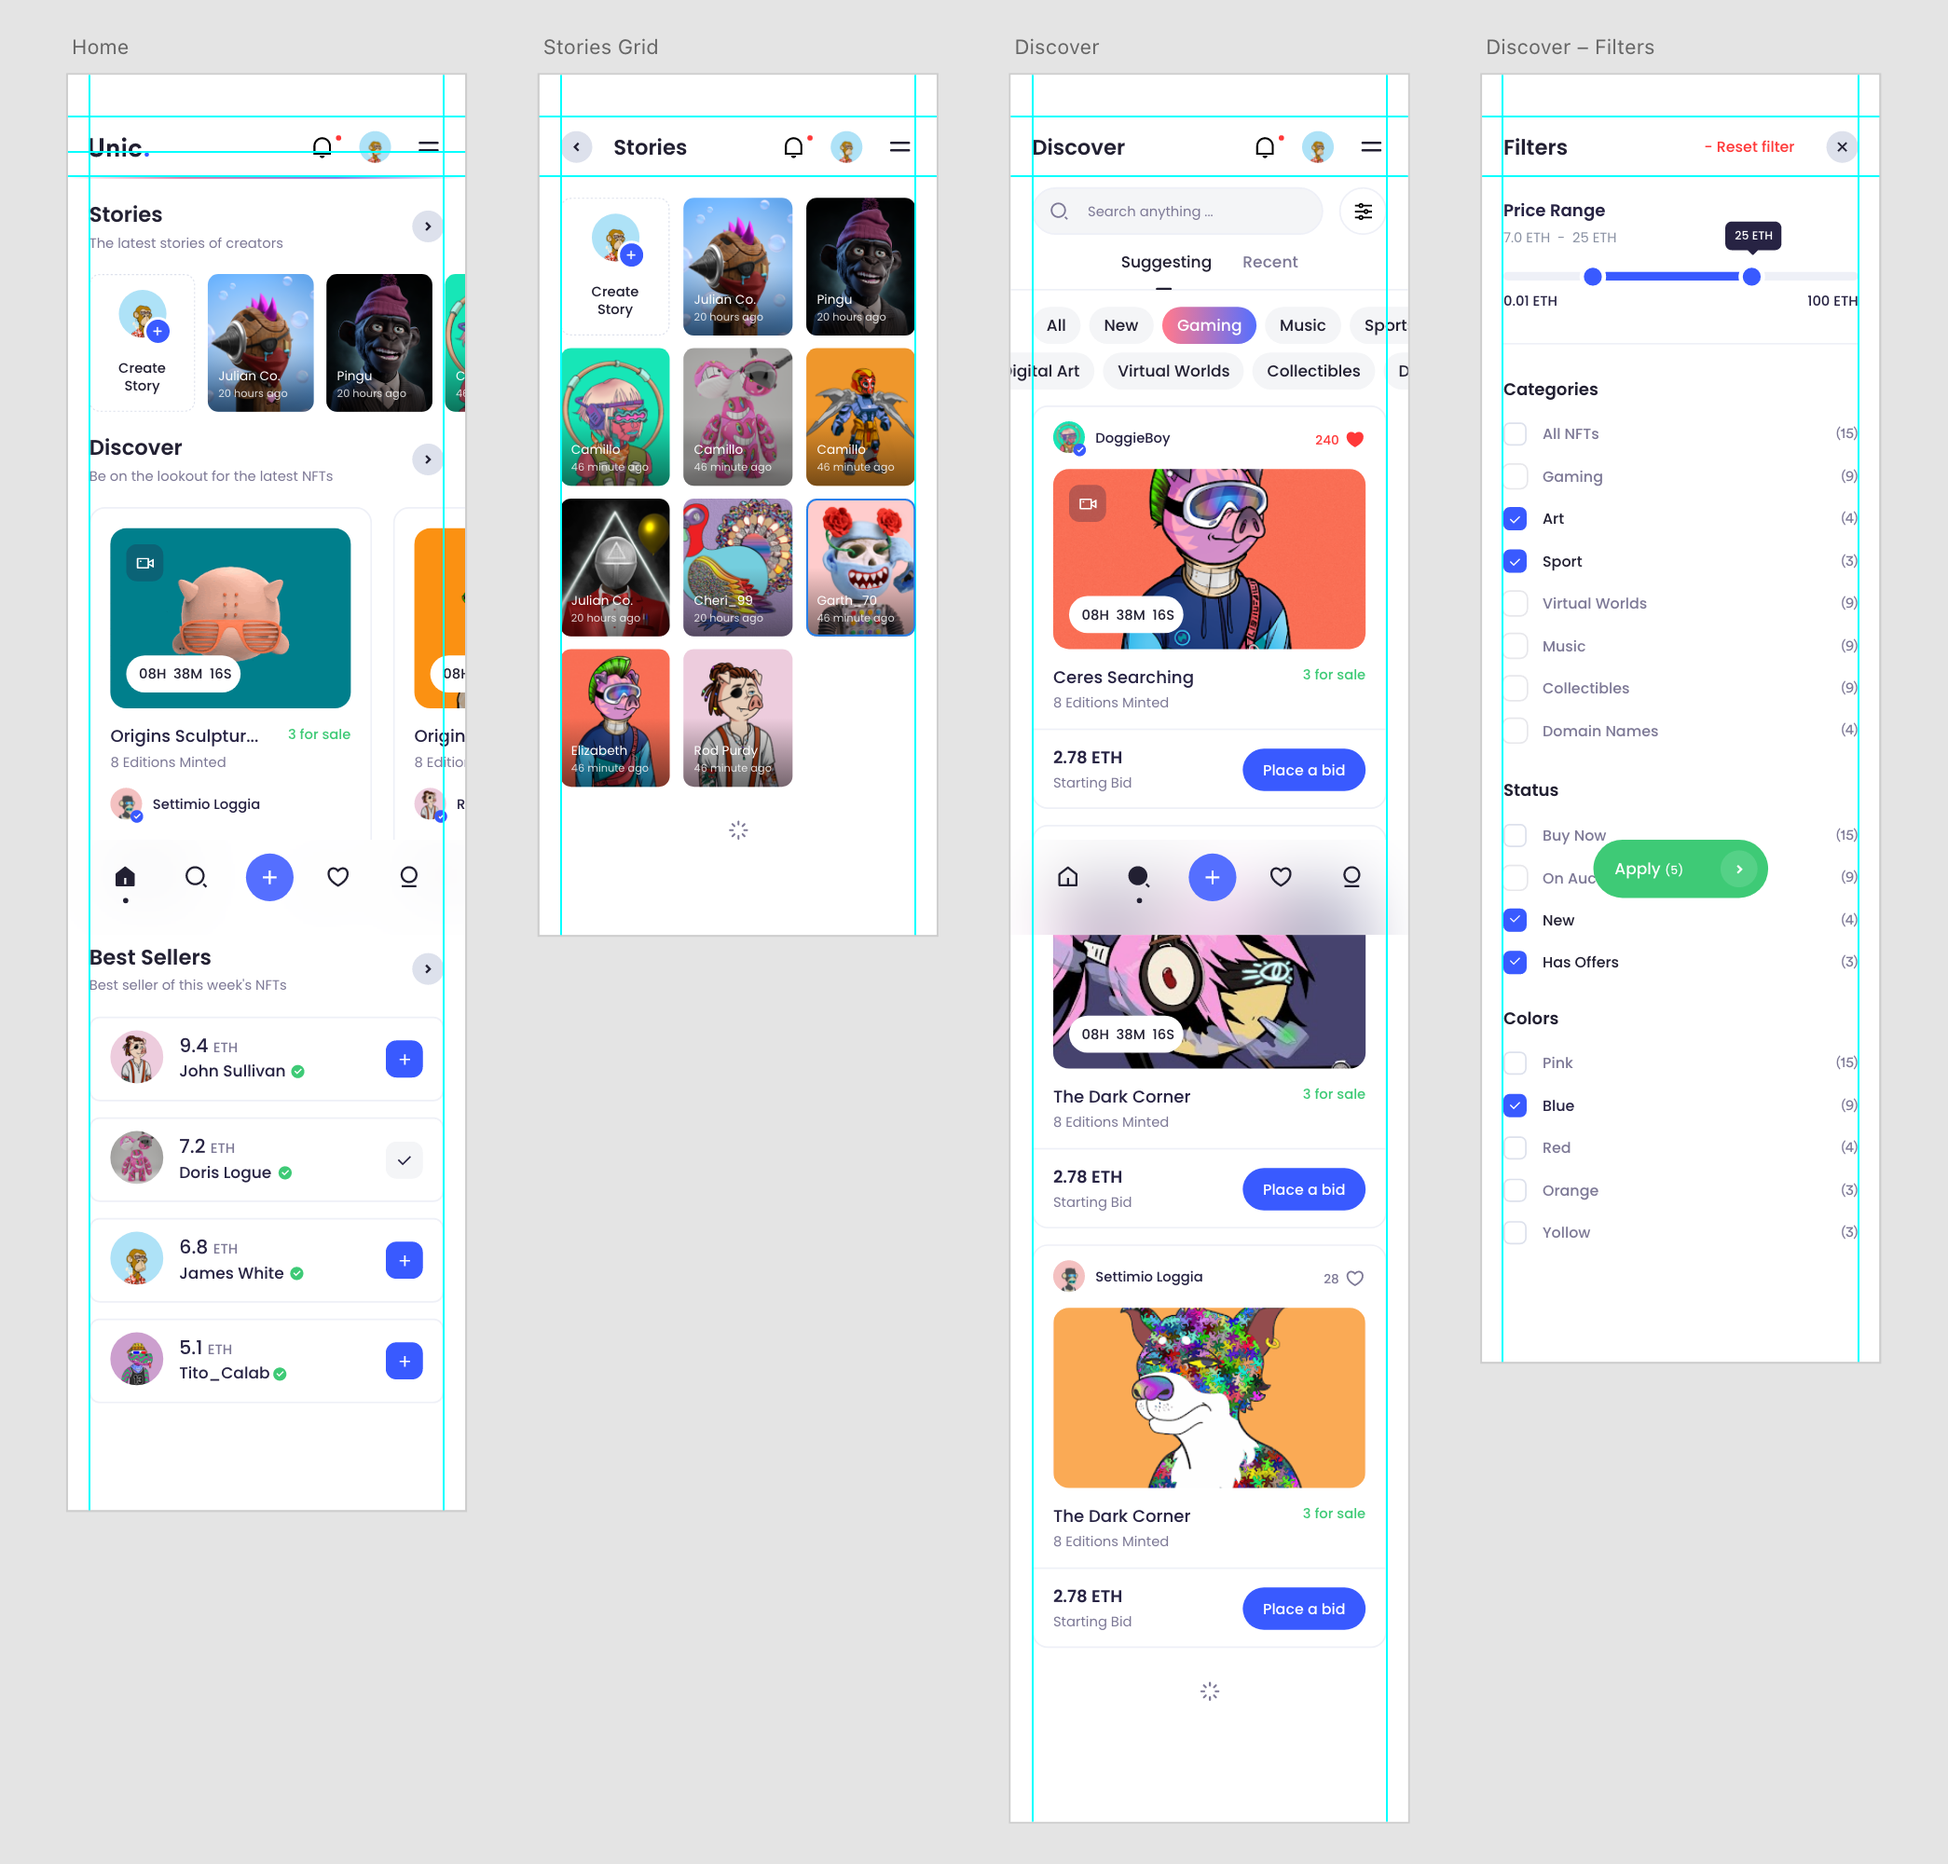
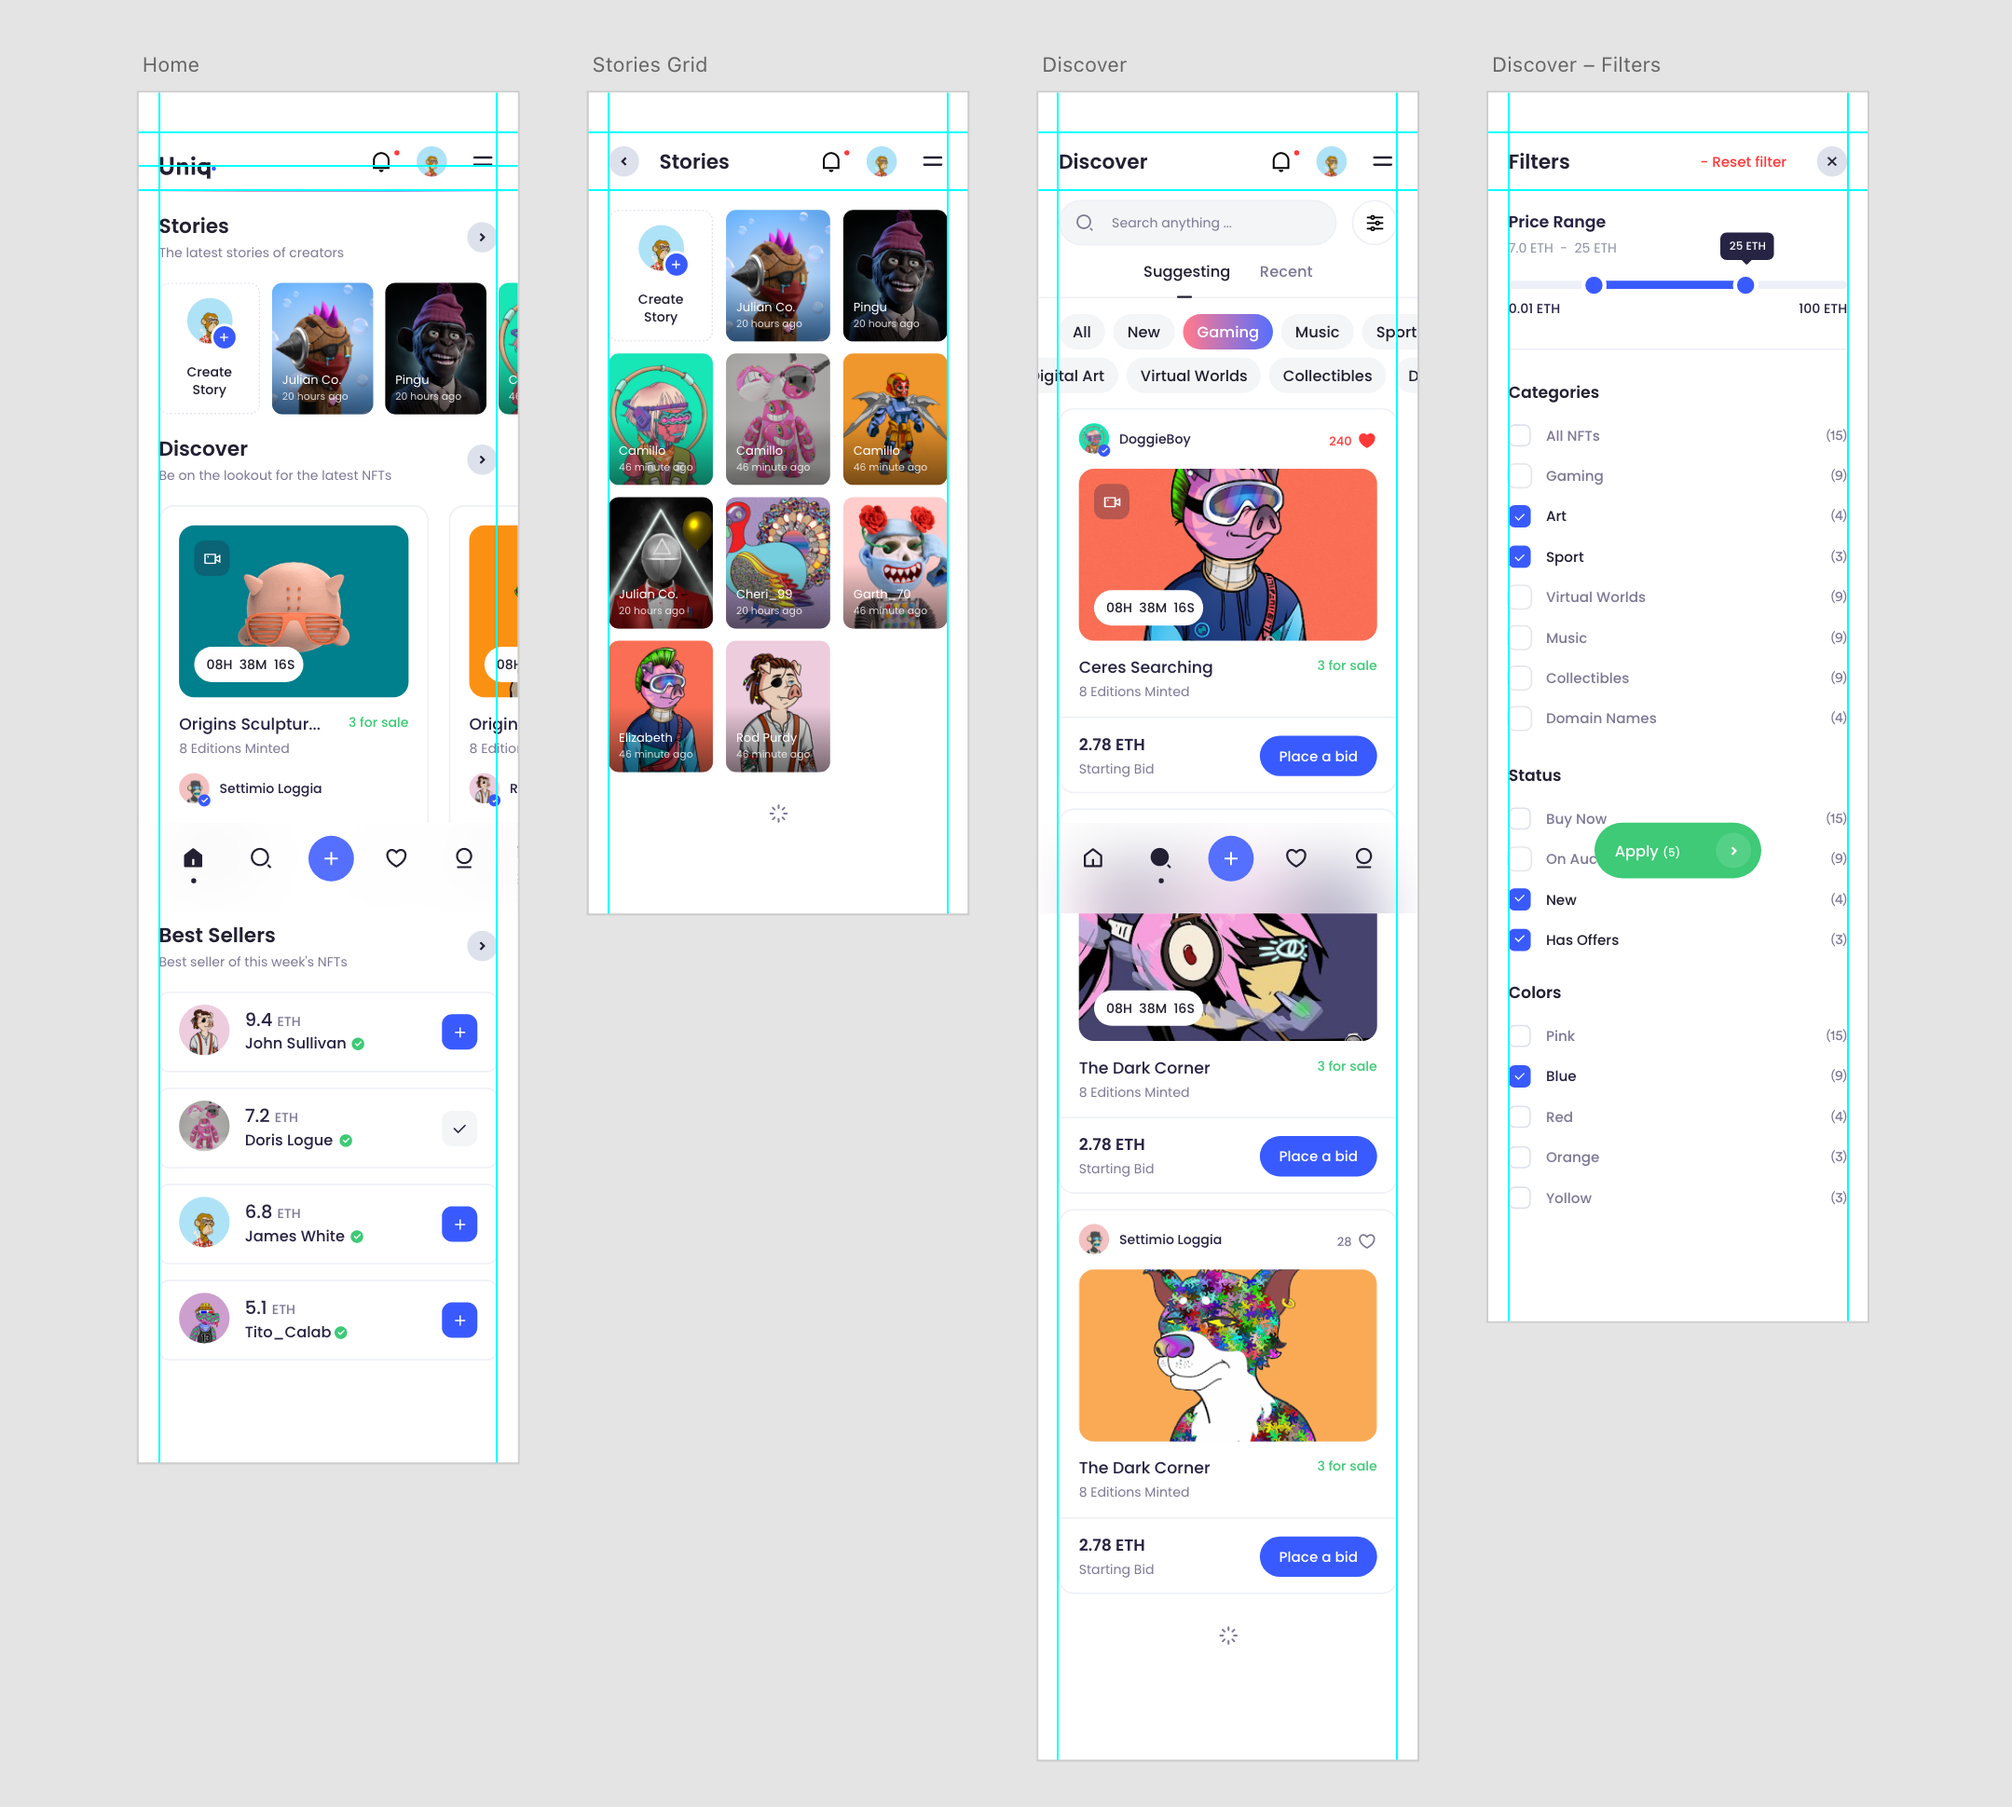
uniq update

Changed region(s): [[0.0311, 0.0, 0.9641, 0.9902], [0.5287, 0.9593, 0.5598, 0.9902]]

diff --git a/uniq.html b/uniq.html
@@ -53,7 +53,7 @@
             <div class="row">
                 <div class="col-lg-12">
                     <small class="text-muted text-uppercase">UX Case Study, UI Designs</small>
-                    <h1 class="font-w-700 mb-50 mt-2">Unic NFT Marketplace</h1>
+                    <h1 class="font-w-700 mb-50 mt-2">Uniq NFT Marketplace</h1>
                     <!-- work title -->
                 </div>
 
@@ -78,7 +78,7 @@
   
                 <div class="col-md-10 mt-60 mb-60">
                     <h2 class="font-w-700 mb-4">About project</h2>
-                    <p>Unic NFT is a PWA/mobile application that allows people discover, buy, and sell NFTs using a user-friendly interface, it allows users easily navigate through their various wallets as well as bid for an NFT art.
+                    <p>Uniq NFT is a PWA/mobile application that allows people discover, buy, and sell NFTs using a user-friendly interface, it allows users easily navigate through their various wallets as well as bid for an NFT art.
                     </p></br>
                     <p>The goal is for users to be able to easily interact with NFT marketplace (buying and selling NFT's) like they would do on any social media app they use regularly</p>
                 </div>
@@ -179,14 +179,14 @@
                     <p><b>What I did: </b> <br/>I created a user flow to visualize how a user interacts with a product from launch of the application to buying or selling NFTs thereby seeing the user through achieving their end goal in the app with just a few steps.</p>
                 </div>
                 <div class="col-md-12">
-                    <img class="img-fluid rounded-lg" src="img/works/Unic flow.png" alt="">
+                    <img class="img-fluid rounded-lg" src="img/works/uniq flow.png" alt="">
                     <!-- work image -->
                 </div>
                 <div class="col-md-10 mt-60 mb-60">
                     <h3 class="font-w-700 mb-4">Information Architecture</h3>
                 </div>
                 <div class="col-md-12">
-                    <img class="img-fluid rounded-lg" src="img/works/Unic IA.png" alt="">
+                    <img class="img-fluid rounded-lg" src="img/works/uniq IA.png" alt="">
                     <!-- work image -->
                 </div>
                 <div class="col-md-10 mt-60 mb-60">
@@ -194,7 +194,7 @@
                     <p><b>What I did: </b> <br/>To brainstorm and test initial design, I created paper prototypes for the application using a pen and paper, this helped me to gain some insights on how the design of the application should look like and test for usability before going into high fidelity.</p>
                 </div>
                 <div class="col-md-12">
-                    <img class="img-fluid rounded-lg" src="img/works/unic paper.png" alt="">
+                    <img class="img-fluid rounded-lg" src="img/works/uniq paper.png" alt="">
                     <!-- work image -->
                 </div>
                 <div class="col-md-10 mt-60 mb-60">

diff --git a/index.html b/index.html
@@ -92,10 +92,10 @@
                     <div class="col-md-6 mt-40">
                         <div class="work-overlay card bg-dark border-0">
                             <img class="card-img" src="img/works/unic-header.png" alt="works">
-                            <a class="d-block text-dark" href="unic">
+                            <a class="d-block text-dark" href="uniq">
                                 <div class="card-img-overlay d-flex align-items-end" data-bgc="#0073FF">
                                     <div class="block p-4 text-white">
-                                        <h4 class="font-w-600">Unic NFT Marketplace</h4>
+                                        <h4 class="font-w-600">Uniq NFT Marketplace</h4>
                                         <small class="d-block mt-10">Blockchain App UX Case Study</small>
                                     </div>
                                 </div>

diff --git a/work.html b/work.html
@@ -63,10 +63,10 @@
                 <div class="col-md-6 mt-40">
                     <div class="work-overlay card bg-dark border-0">
                         <img class="card-img" src="img/works/unic-header.png" alt="works">
-                        <a class="d-block text-dark" href="unic">
+                        <a class="d-block text-dark" href="uniq.html">
                             <div class="card-img-overlay d-flex align-items-end" data-bgc="#0073FF">
                                 <div class="block p-4 text-white">
-                                    <h4 class="font-w-600">Unic NFT Marketplace</h4>
+                                    <h4 class="font-w-600">Uniq NFT Marketplace</h4>
                                     <small class="d-block mt-10">Blockchain App UX Case Study</small>
                                 </div>
                             </div>
